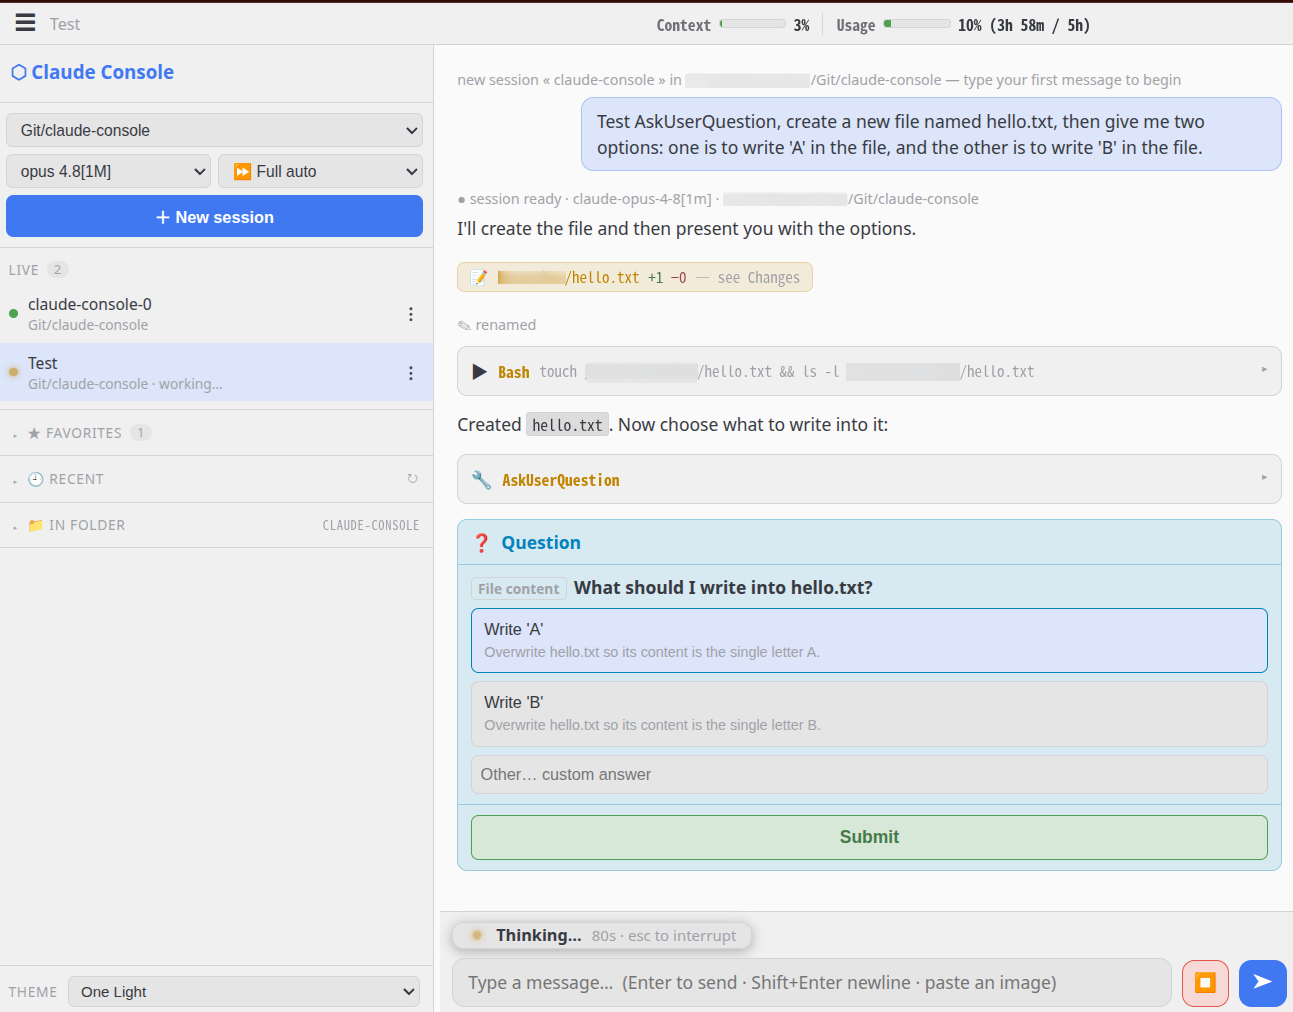
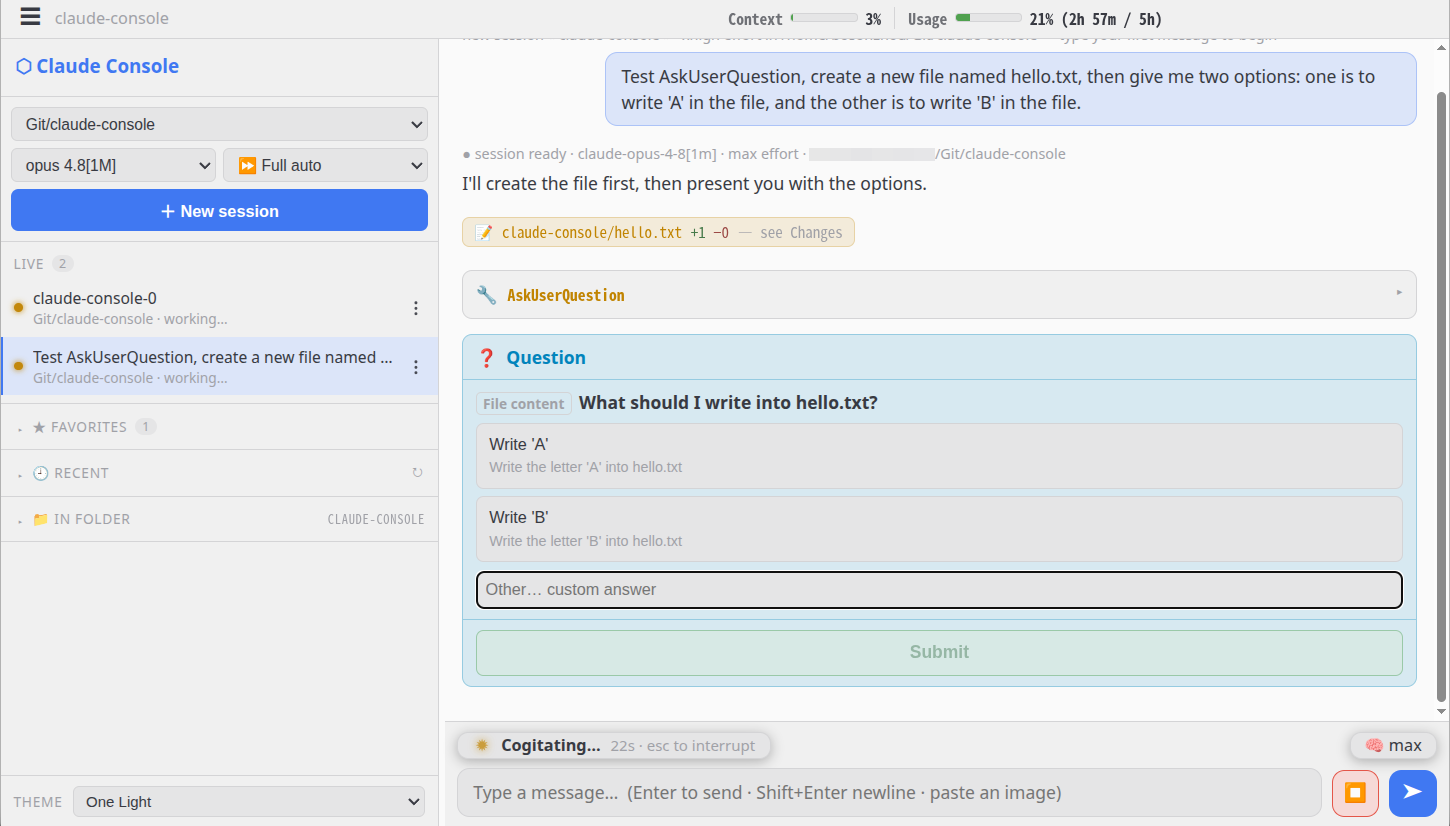
Update README: refreshed screenshots (2-up + centered) and features
- New screenshots (light + approval on top, dark centered below) showing the
  approval options, effort pill, AskUserQuestion and LaTeX rendering.
- Document the message queue, thinking-effort pill, three-option approval, and
  the floating status pill / full-width composer.

diff --git a/README.md b/README.md
@@ -9,8 +9,11 @@ things a raw terminal tangles together:
   live `git diff` of the working directory (ground truth)
 
 <p align="center">
-  <img src="figs/dark-theme.png" alt="Claude Console — dark theme" width="49%">
-  <img src="figs/light-theme.png" alt="Claude Console — light theme" width="49%">
+  <img src="figs/light-theme.png" alt="Claude Console — One Light theme, AskUserQuestion" width="49%">
+  <img src="figs/approve.png" alt="Claude Console — per-action approval (Approve / Always / Deny)" width="49%">
+</p>
+<p align="center">
+  <img src="figs/dark-theme.png" alt="Claude Console — Dracula theme, LaTeX rendering" width="49%">
 </p>
 
 It drives Claude Code through the **Claude Agent SDK** (which runs the real
@@ -30,9 +33,16 @@ which is the whole point.
 - **Resumable sessions** — reopen a project and pick up a previous Claude Code
   conversation (transcripts under `~/.claude/projects` restore history and the
   right `cwd`).
-- **Interactive round-trips** — per-action Approve/Deny prompts (in 🔐 Approve
-  mode) and in-browser **AskUserQuestion** cards; your pick is fed back to the
-  agent.
+- **Interactive round-trips** — per-action approval with three choices
+  (**Approve** / **Approve & don't ask again this session** / **Deny**) in 🔐
+  Approve mode, plus in-browser **AskUserQuestion** cards; your pick is fed back
+  to the agent.
+- **Message queue** — type while the agent is busy and the message queues; it is
+  injected into the running turn at the next tool boundary (steering). Click a
+  queued chip (or press ↑) to withdraw it back into the editor and edit it.
+- **Thinking effort** — a `🧠` pill (low / medium / high / xhigh / max) to set
+  reasoning depth, switchable on the fly (the session relaunches with the new
+  `--effort`).
 - **Image paste** — paste a screenshot (`Ctrl/Cmd+V`) into the composer to send
   it as a multimodal message.
 - **LaTeX rendering** — `$…$`, `$$…$$`, `\(…\)`, `\[…\]` in replies render with
@@ -40,8 +50,9 @@ which is the whole point.
 - **13 color themes** — light & dark (Dark, Dracula, Nord, Tokyo Night,
   Catppuccin, Gruvbox, Light, Solarized Light, Rosé Pine Dawn, One Light, Ayu
   Light, …), switchable from the sidebar; choice persists per device.
-- **At-a-glance meters** — context-window usage and the rolling 5-hour usage
-  limit in the header; a persistent ready / working status bar above the composer.
+- **At-a-glance status** — context-window and rolling 5-hour usage meters in the
+  header; a floating status pill (ready / working timer) plus the effort pill
+  above a full-width composer.
 - Pick **project dir**, **model** (default/opus/sonnet/haiku) and **permission
   mode** when starting a session.
 
